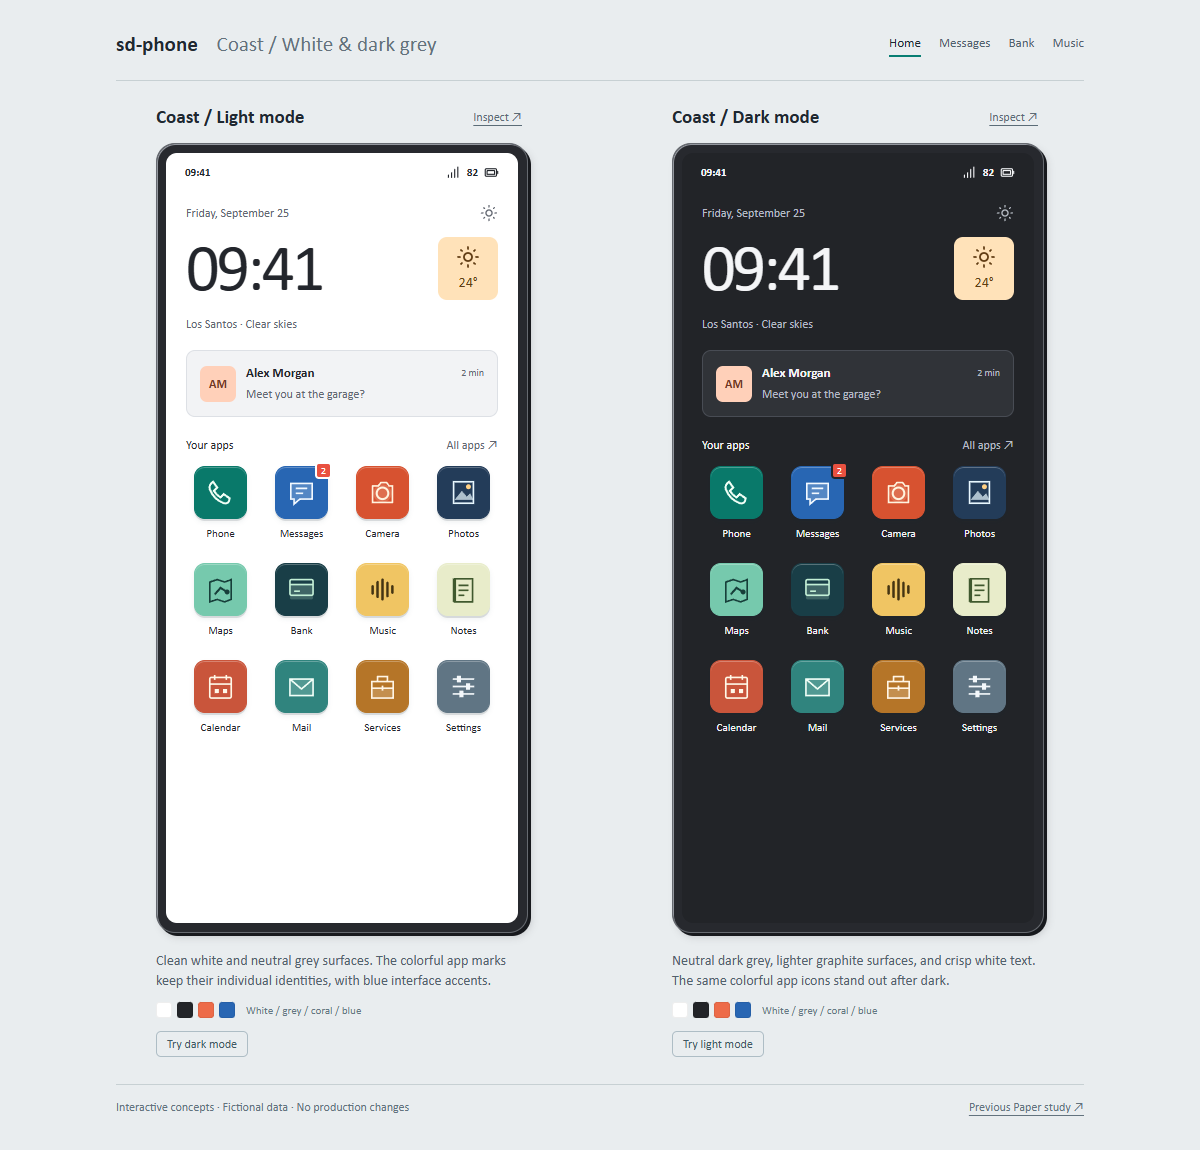
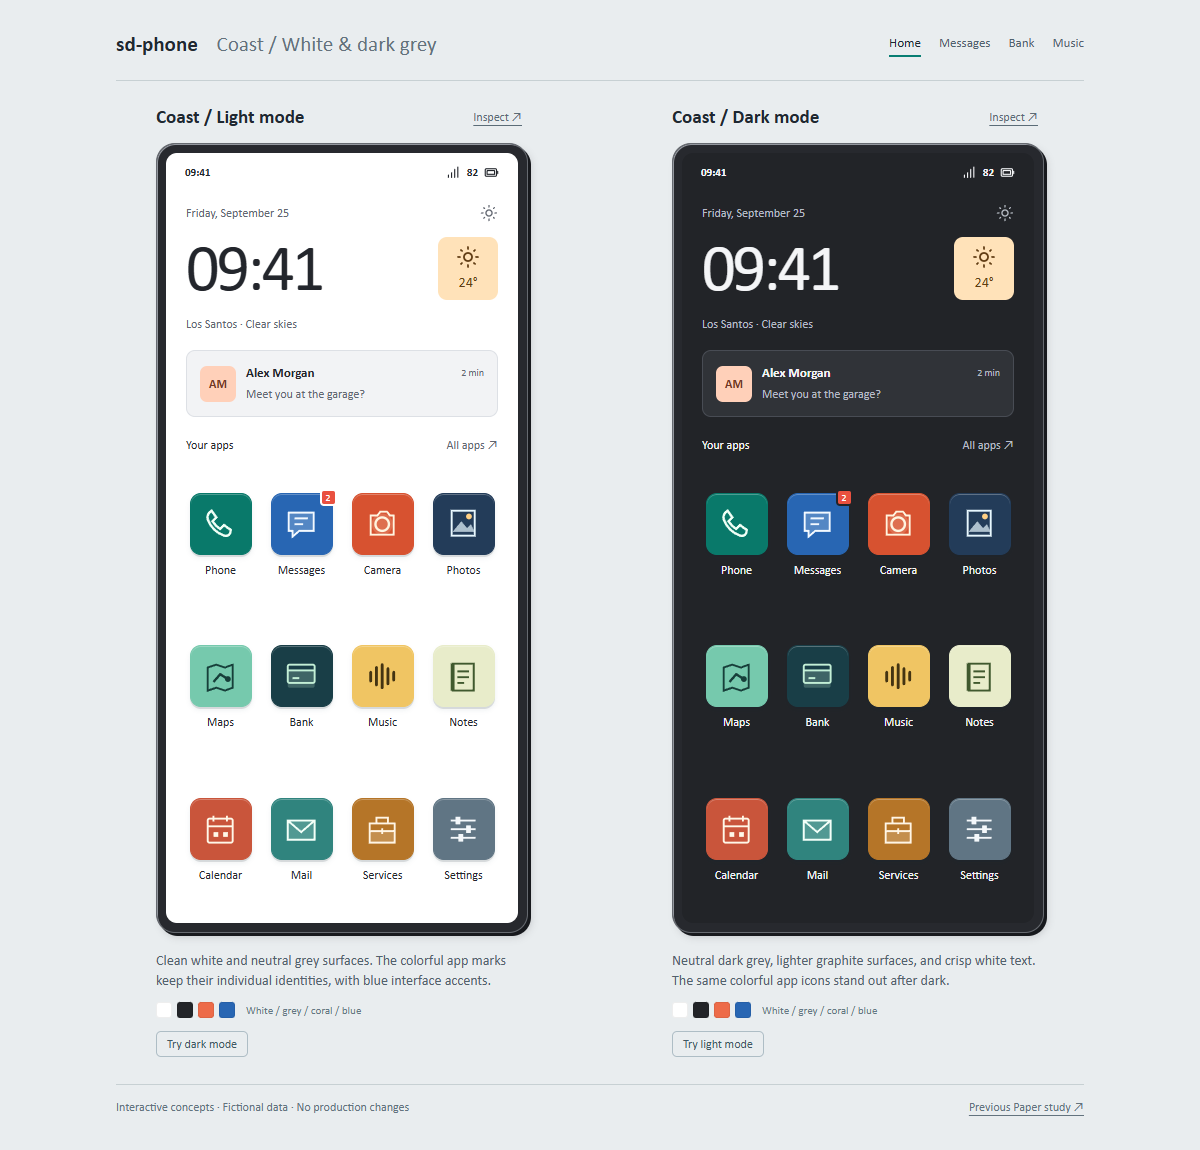
Expand phone mockup app grid into available screen height

diff --git a/designs/phone-concepts/vibrant.html b/designs/phone-concepts/vibrant.html
@@ -43,7 +43,8 @@
     .content { flex: 1; overflow: auto; min-height: 0; scrollbar-width: none; }
     .content::-webkit-scrollbar { display: none; }
     .plain { border: 0; background: none; color: inherit; padding: 0; text-align: left; }
-    .home { padding: 13px 20px 15px; }
+    .home { height: 100%; min-height: 650px; display: flex; flex-direction: column; padding: 13px 20px 15px; }
+    .home > :not(.app-grid) { flex-shrink: 0; }
     .greeting { display: flex; align-items: center; justify-content: space-between; font-size: 12px; color: var(--muted); }
     .greeting .icon { width: 18px; height: 18px; }
     .clock-row { display: flex; justify-content: space-between; align-items: center; margin: 13px 0 16px; }
@@ -63,6 +64,10 @@
     .app-tile { min-width: 0; display: flex; align-items: center; flex-direction: column; gap: 8px; border: 0; background: none; color: var(--ink); padding: 0; }
     .app-mark { width: 53px; height: 53px; border-radius: 11px; position: relative; display: grid; place-items: center; color: var(--glyph); background: var(--tile); border: 1px solid var(--tile); box-shadow: inset 0 1px 0 #ffffff45, 0 2px 0 #10263320, 0 3px 5px #10263312; }
     .app-mark svg { width: 33px; height: 33px; }
+    .home .app-grid { flex: 1; min-height: 300px; grid-template-rows: repeat(3, minmax(0, 1fr)); row-gap: 16px; align-items: center; }
+    .home .app-mark { width: min(62px, 100%); height: auto; aspect-ratio: 1; }
+    .home .app-mark svg { width: 64%; height: 64%; }
+    .home .app-label { font-size: 12px; }
     .app-label { font-size: 11px; font-weight: 500; text-align: center; }
     .app-tile:active .app-mark { box-shadow: inset 0 2px 3px #0003; }
     .count { position: absolute; right: -5px; top: -5px; width: 17px; height: 17px; background: #e95140; color: #fff; border: 2px solid var(--bg); border-radius: 4px; font-size: 10px; display: grid; place-items: center; }

diff --git a/designs/phone-concepts/README.md b/designs/phone-concepts/README.md
@@ -6,7 +6,7 @@ Open `vibrant.html` for three fresh directions: **Coast** (clean white or dark g
 
 Open `vibrant.html?study=coast` to compare the selected Coast design in both modes. Light mode uses pure white `#ffffff`, dark text `#23262c`, and neutral surfaces `#f2f3f5`. Dark mode uses dark grey `#222428`, white text `#f4f5f7`, and graphite surfaces `#303338`. Backgrounds, text, borders, and the device frame have no green tint; individual app icons retain their colors.
 
-The home-screen music strip and bottom Home / Apps / Messages navigation bar have been removed. Open apps from their icons or the All apps link, and use the back button inside each app to return. The controls above the phones remain available for comparing example screens.
+The home-screen music strip and bottom Home / Apps / Messages navigation bar have been removed. The home grid fills the freed screen height, with evenly distributed rows and larger icons that still fit the available column width. Open apps from their icons or the All apps link, and use the back button inside each app to return. The controls above the phones remain available for comparing example screens.
 
 Screenshots are in `screenshots/vibrant/`. Run `node designs/phone-concepts/capture-vibrant.mjs` to refresh them and check interactions. This uses the existing Playwright dependency and installed Chrome.
 
